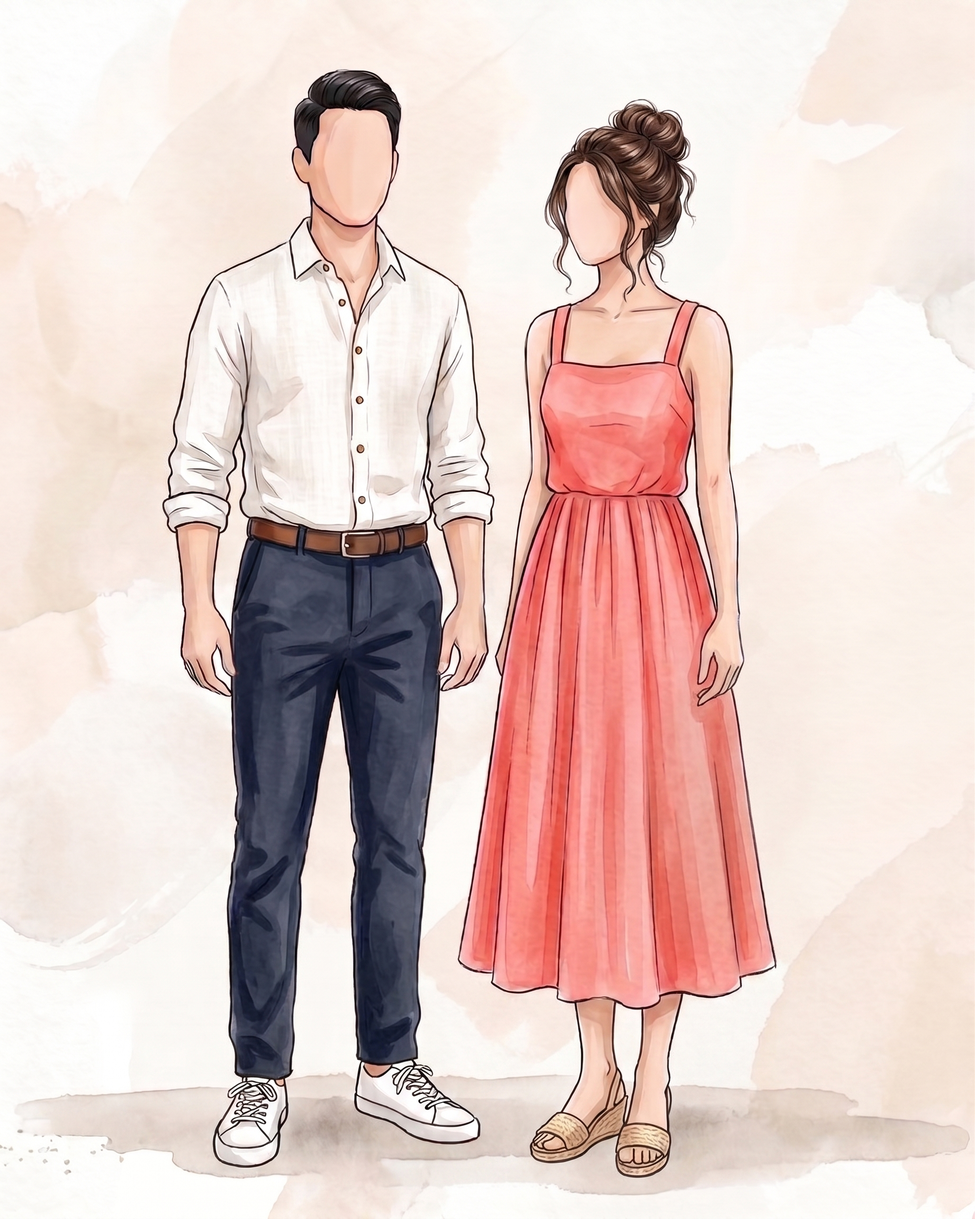
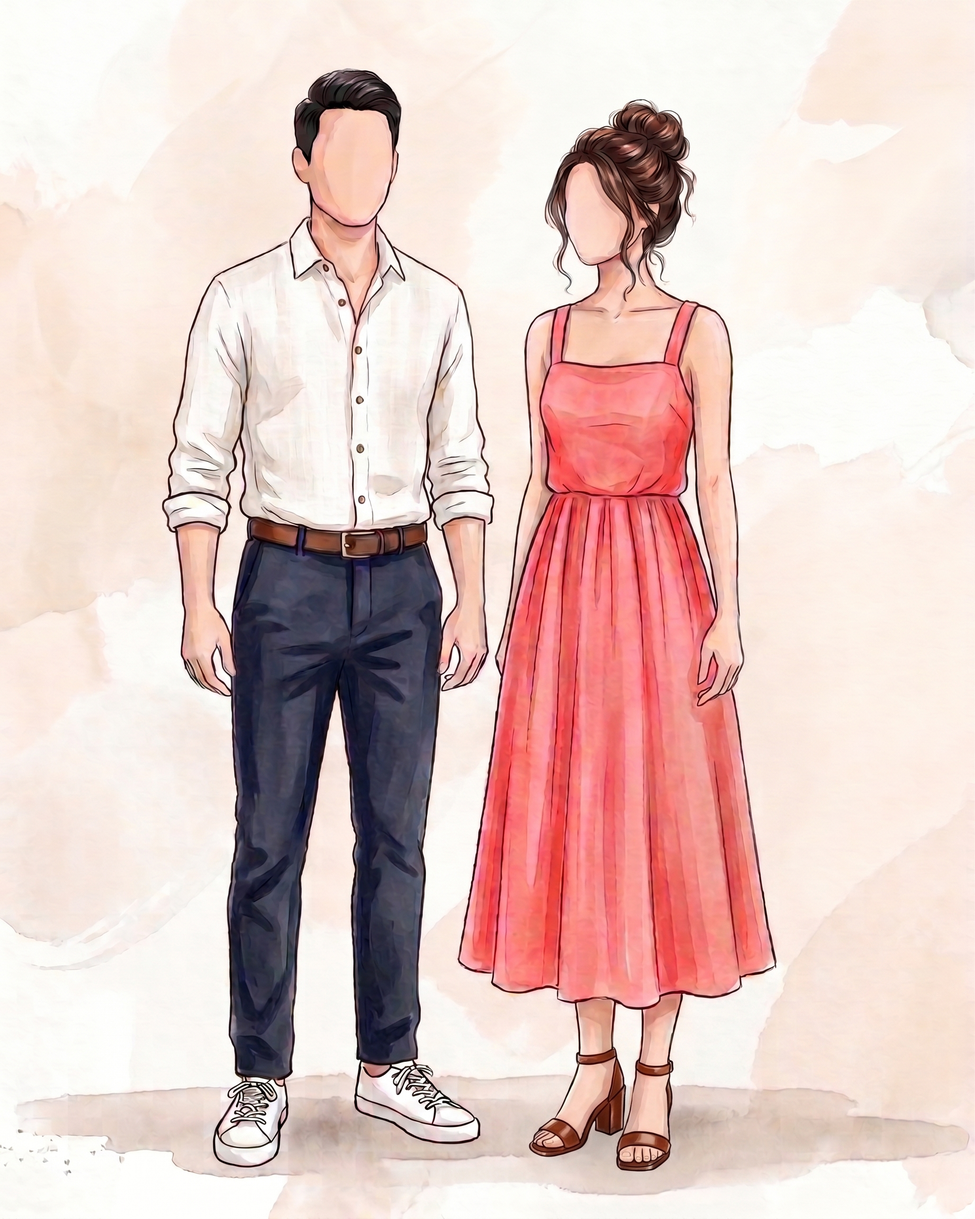
adiçao na lista de presentes e contagem regressiva

diff --git a/index_teste.html b/index_teste.html
@@ -498,7 +498,7 @@
     <section id="festa" class="section">
       <h2 class="section-title">A Festa</h2>
       <div class="info-card">
-        <p style="margin-bottom: 20px; text-align: center;">
+        <p style="margin-bottom: 20px;">
           O evento vai ser bem tranquilo, sem cerimônias, focado em curtir com vocês!! A festa será estilo coquetel, sem lugares marcados ou mesa de jantar tradicional. A ideia é circular, curtir música boa e aproveitar os drinks e as pizzas servidas à vontade!
         </p>
 
@@ -524,7 +524,7 @@
       <h2 class="section-title">Vestimenta</h2>
       <div class="info-card" style="text-align: center;">
         <p style="margin-bottom: 10px;">
-          Queremos que todos estejam confortáveis para nos divertirmos juntos. Então no fim do dia, vá vestido como preferir! De qualquer forma, abaixo temos algumas sugestões do que idealizamos.
+          Queremos que todos estejam confortáveis para nos divertirmos juntos. Então no fim do dia, vá vestido como preferir! Mas abaixo temos algumas sugestões do que idealizamos.
         </p>
         
         <h3 style="color: var(--primary-color); font-size: 1.5rem; letter-spacing: 2px; margin-top: 20px; text-transform: uppercase;">
@@ -538,7 +538,7 @@
             <h3 class="dress-code-title">Homens</h3>
             
             <div class="dress-code-item" style="justify-content: center; text-align: center;">
-              <p>Camisa social ou de linho de manga longa</p>
+              <p>Camisa social ou esporte de <strong>manga longa</strong></p>
             </div>
             
             <div class="dress-code-item" style="justify-content: center; text-align: center;">
@@ -546,11 +546,11 @@
             </div>
             
             <div class="dress-code-item" style="justify-content: center; text-align: center;">
-              <p>Sugerimos deixar o paletó e a gravata em casa para maior conforto.</p>
+              <p>Sugerimos <strong>deixar o paletó em casa</strong> para maior conforto, e <strong>sem gravata</strong>.</p>
             </div>
 
             <div class="dress-code-item" style="justify-content: center; text-align: center;">
-              <p>Proibido camisas de time, pro noivo não ficar com inveja!</p>
+              <p>Evitar camisas de time, pro noivo não ficar com inveja!</p>
             </div>
           </div>
 
@@ -565,19 +565,19 @@
             <h3 class="dress-code-title">Mulheres</h3>
             
             <div class="dress-code-item" style="justify-content: center; text-align: center;">
-              <p>Vestido ou saia, longo ou midi</p>
+              <p><strong>Vestido longo</strong> ou midi</p>
             </div>
             
             <div class="dress-code-item" style="justify-content: center; text-align: center;">
-              <p>Sandálias, salto grosso ou blocos</p>
+              <p>Sandálias, salto grosso ou blocos (ideal pela dinâmica do espaço)</p>
             </div>
             
             <div class="dress-code-item" style="justify-content: center; text-align: center;">
-              <p>Proibido salto alto se tiver mais de 1,60m pra noiva se sentir alta (mas se quiser, pode 😝)</p>
+              <p>Proibido salto alto se tiver mais de 1,60m pra noiva se sentir alta (mas se quiser, pode 🤪)</p>
             </div>
 
             <div class="dress-code-item" style="justify-content: center; text-align: center;">
-              <p><strong>Restrição de cores:</strong> Evitar branco, off-white e creme, estritamente reservado para a noiva</p>
+              <p><strong>Evitar a cor branca</strong> (estritamente reservada para a noiva)</p>
             </div>
           </div>
 
@@ -635,112 +635,6 @@
         </form>
       </div>
     </section>
-
-    <!-- Estilos do Contador (Design) -->
-    <style>
-      .contador-container {
-        text-align: center;
-        font-family: "Georgia", serif; /* Fonte clássica que lembra a da imagem */
-        margin: 50px auto;
-      }
-      .contador-titulo {
-        font-size: 13px;
-        letter-spacing: 2px;
-        text-transform: uppercase;
-        color: #666;
-        margin-bottom: 25px;
-      }
-      .contador-wrapper {
-        display: flex;
-        justify-content: center;
-        gap: 15px; /* Espaço entre as caixinhas */
-        flex-wrap: wrap;
-      }
-      .contador-bloco {
-        display: flex;
-        flex-direction: column;
-        align-items: center;
-      }
-      .contador-numero {
-        /* O linear-gradient cria aquela linha sutil no meio do número */
-        background: linear-gradient(to bottom, #f9f9f9 49%, #e0e0e0 50%, #f9f9f9 51%);
-        border: 1px solid #eaeaea;
-        border-radius: 4px;
-        padding: 15px 10px;
-        min-width: 65px;
-        font-size: 34px;
-        color: #333;
-        box-shadow: 0 2px 4px rgba(0,0,0,0.03);
-        margin-bottom: 10px;
-      }
-      .contador-legenda {
-        font-size: 10px;
-        letter-spacing: 1px;
-        color: #888;
-        text-transform: uppercase;
-      }
-    </style>
-
-    <!-- Estrutura do Contador -->
-    <div class="contador-container">
-      <div class="contador-titulo">Contagem Regressiva para o Grande Dia</div>
-      
-      <div class="contador-wrapper">
-        <div class="contador-bloco">
-          <div class="contador-numero" id="dias">00</div>
-          <div class="contador-legenda">Dias</div>
-        </div>
-        
-        <div class="contador-bloco">
-          <div class="contador-numero" id="horas">00</div>
-          <div class="contador-legenda">Horas</div>
-        </div>
-        
-        <div class="contador-bloco">
-          <div class="contador-numero" id="minutos">00</div>
-          <div class="contador-legenda">Minutos</div>
-        </div>
-        
-        <div class="contador-bloco">
-          <div class="contador-numero" id="segundos">00</div>
-          <div class="contador-legenda">Segundos</div>
-        </div>
-      </div>
-    </div>
-
-    <!-- Script que faz a contagem funcionar -->
-    <script>
-      // Data e hora do evento: 28 de Novembro de 2026 às 16:30
-      var dataDoCasamento = new Date("Nov 28, 2026 16:30:00").getTime();
-
-      var intervalo = setInterval(function() {
-        var agora = new Date().getTime();
-        var distancia = dataDoCasamento - agora;
-
-        // Se o momento chegar, crava tudo em zero e para a contagem
-        if (distancia < 0) {
-          clearInterval(intervalo);
-          document.getElementById("dias").innerHTML = "00";
-          document.getElementById("horas").innerHTML = "00";
-          document.getElementById("minutos").innerHTML = "00";
-          document.getElementById("segundos").innerHTML = "00";
-          return; // Impede que o restante do código rode
-        }
-
-        // Cálculos de tempo
-        var dias = Math.floor(distancia / (1000 * 60 * 60 * 24));
-        var horas = Math.floor((distancia % (1000 * 60 * 60 * 24)) / (1000 * 60 * 60));
-        var minutos = Math.floor((distancia % (1000 * 60 * 60)) / (1000 * 60));
-        var segundos = Math.floor((distancia % (1000 * 60)) / 1000);
-
-        // Atualiza os números na tela (colocando o zero à esquerda quando necessário)
-        document.getElementById("dias").innerHTML = dias;
-        document.getElementById("horas").innerHTML = horas < 10 ? "0" + horas : horas;
-        document.getElementById("minutos").innerHTML = minutos < 10 ? "0" + minutos : minutos;
-        document.getElementById("segundos").innerHTML = segundos < 10 ? "0" + segundos : segundos;
-        
-      }, 1000);
-    </script>
 
     <div style="text-align: center; margin-top: 40px;">
       <button class="btn-primary" onclick="showView('gifts')" style="max-width: 350px; background: var(--accent);">
@@ -830,26 +724,23 @@
     // Dados dos Presentes
     const gifts = [
       { id: 1, title: "Se eu não comprar nada,<br>o desconto é maior", price: 1, img: "img/presentes/julius.jpg" },
-      { id: 2, title: "1 mês de Geoguessr<br>pro noivo", price: 10, img: "img/presentes/geoguessr.jpg" },
-      { id: 3, title: "Bilhetes de ônibus pra<br>passear no Ibirapuera", price: 11, img: "img/presentes/busao.jpg" },
-      { id: 4, title: "Coxinha da Padaria Real", price: 15, img: "img/presentes/coxinha.jpg" },
-      { id: 5, title: "2 Ingressos pro jogo<br>da Portuguesa", price: 30, img: "img/presentes/tristeza.jpg" },
-      { id: 6, title: "Regador de elefantinho pras plantinhas da casa", price: 40, img: "img/presentes/regador.jpg" },
-      { id: 7, title: "1 ano de corte de cabelo<br>e barba pro noivo", price: 45, img: "img/presentes/corte.jpg" },
-      { id: 8, title: "Travesseiro pra dormir<br>no aeroporto", price: 50, img: "img/presentes/travesseiro.jpg" },
-      { id: 9, title: "Papete da noiva", price: 55, img: "img/presentes/papete.jpg" },
-      { id: 10, title: "Filme para usar a<br>Instax em viagens", price: 60, img: "img/presentes/instax.jpg" },
-      { id: 11, title: "Tapete de Yoga pra noiva", price: 70, img: "img/presentes/tapeteyoga.jpg" },
-      { id: 12, title: "Camisa da Lusa pra noiva", price: 75, img: "img/presentes/camisalusa.jpg" },
-      { id: 13, title: "Fone anti-ruído pra não ouvir o barulho do noivo", price: 80, img: "img/presentes/fone.jpg" },
-      { id: 14, title: "Expansão de Ticket to Ride", price: 85, img: "img/presentes/tickettoride.jpg" },
-      { id: 15, title: "Cota pra geladeira nova que não congele tudo", price: 90, img: "img/presentes/geladeira.jpg" },
-      { id: 16, title: "Aula de potinho pra noiva", price: 100, img: "img/presentes/potinho.png" },
-      { id: 17, title: "Spa pra quando o casal brigar por causa da louça", price: 115, img: "img/presentes/spa.jpg" },
-      { id: 18, title: "Cota pro casal comprar uma lava-louça", price: 120, img: "img/presentes/lavalouca.jpg" },
-      { id: 19, title: "Ingresso das<br>Paralimpíadas 2028", price: 125, img: "img/presentes/la28.png" },
-      { id: 20, title: "1 noite de Airbnb na próxima viagem", price: 130, img: "img/presentes/airbnb.jpg" },
-      { id: 21, title: "Viagem Completa<br>Oceania 2032", price: 50000, img: "img/presentes/oceania.jpg" }
+      { id: 3, title: "Pipoquinha", price: 5, img: "img/presentes/pipoca.jpg" },
+      { id: 4, title: "1 mês de Geoguessr<br>pro noivo", price: 10, img: "img/presentes/geoguessr.jpg" },
+      { id: 5, title: "Bilhetes de ônibus<br>pra passiá no Ibirapuera", price: 11, img: "img/presentes/busao.jpg" },
+      { id: 6, title: "Coxinha da Padaria Real", price: 15, img: "img/presentes/coxinha.jpg" },
+      { id: 7, title: "2 Ingressos pro jogo<br>da Portuguesa", price: 30, img: "img/presentes/tristeza.jpg" },
+      { id: 8, title: "Fone anti-ruído pra não ouvir o barulho do noivo", price: 35, img: "img/presentes/fone.jpg" },
+      { id: 9, title: "1 ano de corte de cabelo<br>e barba pro noivo", price: 40, img: "img/presentes/corte.jpg" },
+      { id: 10, title: "Travesseiro pra dormir no aeroporto", price: 45, img: "img/presentes/travesseiro.jpg" },
+      { id: 11, title: "Papete da noiva", price: 50, img: "img/presentes/papete.jpg" },
+      { id: 12, title: "Filme para usar a<br>Instax em viagens", price: 60, img: "img/presentes/instax.jpg" },
+      { id: 13, title: "Aula de potinho pra Julia", price: 65, img: "img/presentes/potinho.png" },
+      { id: 15, title: "Tapete de Yoga pra noiva", price: 70, img: "img/presentes/tapeteyoga.jpg" },
+      { id: 16, title: "Camisa da Lusa pra noiva", price: 80, img: "img/presentes/camisalusa.jpg" },
+      { id: 17, title: "Expansão de Ticket to Ride", price: 90, img: "img/presentes/tickettoride.jpg" },
+      { id: 18, title: "Ingresso das Paralimpíadas 2028", price: 110, img: "img/presentes/la28.png" },
+      { id: 19, title: "1 noite de Airbnb na próxima viagem", price: 130, img: "img/presentes/airbnb.jpg" },
+      { id: 20, title: "Viagem Completa<br>Oceania 2032", price: 50000, img: "img/presentes/oceania.jpg" }
     ];
 
     // Carrinho refatorado para objeto (id do presente -> quantidade)
